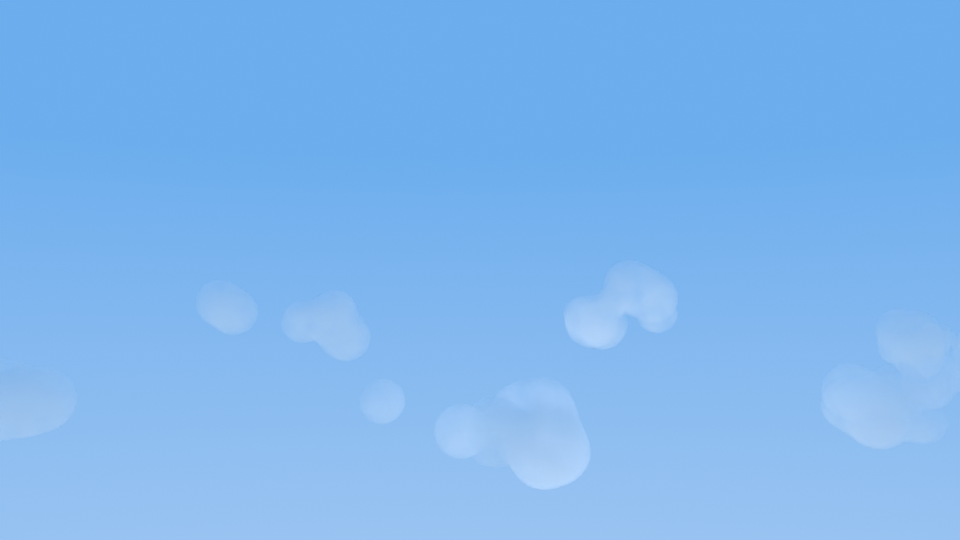
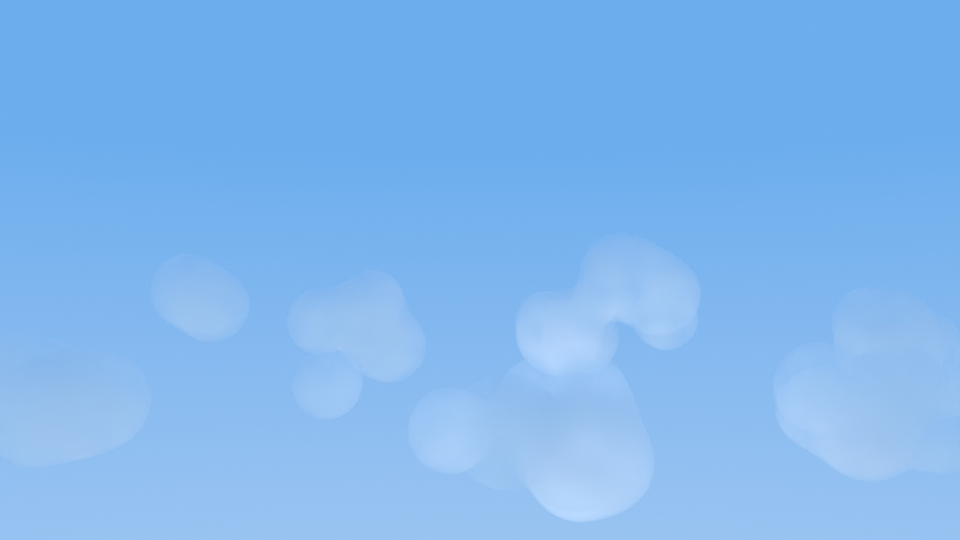
Wire cloud sky into hero scene with scroll-driven horizontal pan
Adds a textured plane using the Blender cloud render as the opening
sky backdrop, fading out alongside the hero copy. Clouds pan left to
right as the user scrolls (tied to scroll progress, not real time) via
horizontally-mirrored texture wrapping so the pan never shows a seam.
Also swaps in the larger-cloud render so the sky reads clearly instead
of barely showing clouds.

Claude-Session: https://claude.ai/code/session_015QoMGc2b6MsoGQWJV2wti9

diff --git a/index.html b/index.html
@@ -340,6 +340,17 @@
     const particles = new THREE.Points(particleGeo, particleMat);
     scene.add(particles);
 
+    // ---------- opening cloud sky (fades out as hero copy fades) ----------
+    const cloudTexLoader = new THREE.TextureLoader();
+    const cloudTex = cloudTexLoader.load('images/cloud-sky-render.png');
+    cloudTex.wrapS = cloudTex.wrapT = THREE.MirroredRepeatWrapping;
+    const cloudSky = new THREE.Mesh(
+      new THREE.PlaneGeometry(100, 56),
+      new THREE.MeshBasicMaterial({ map: cloudTex, transparent: true, opacity: 1, fog: true })
+    );
+    cloudSky.position.set(0, 2, -25);
+    scene.add(cloudSky);
+
     // ---------- soft glow texture (clouds / star / embers) ----------
     function makeGlowTexture() {
       const size = 128;
@@ -488,6 +499,11 @@
     const clock = new THREE.Clock();
 
     function updateScene(progress) {
+      // opening cloud sky: pans left-to-right as the user scrolls, fades out with the hero copy
+      cloudTex.offset.x = -progress * 1.4;
+      cloudSky.material.opacity = 1 - ramp(progress, ...T.heroFade);
+      cloudSky.visible = cloudSky.material.opacity > 0.001;
+
       // camera along path
       const camPos = path.getPointAt(progress);
       camera.position.copy(camPos);
